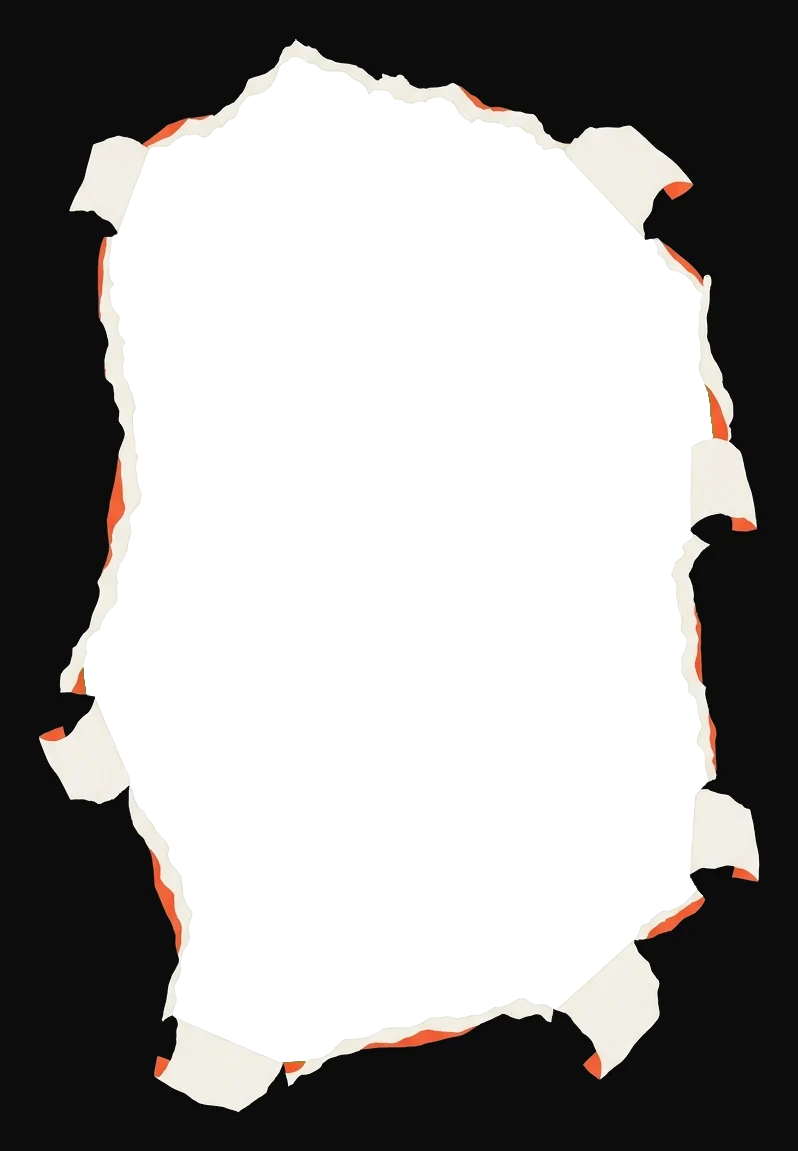
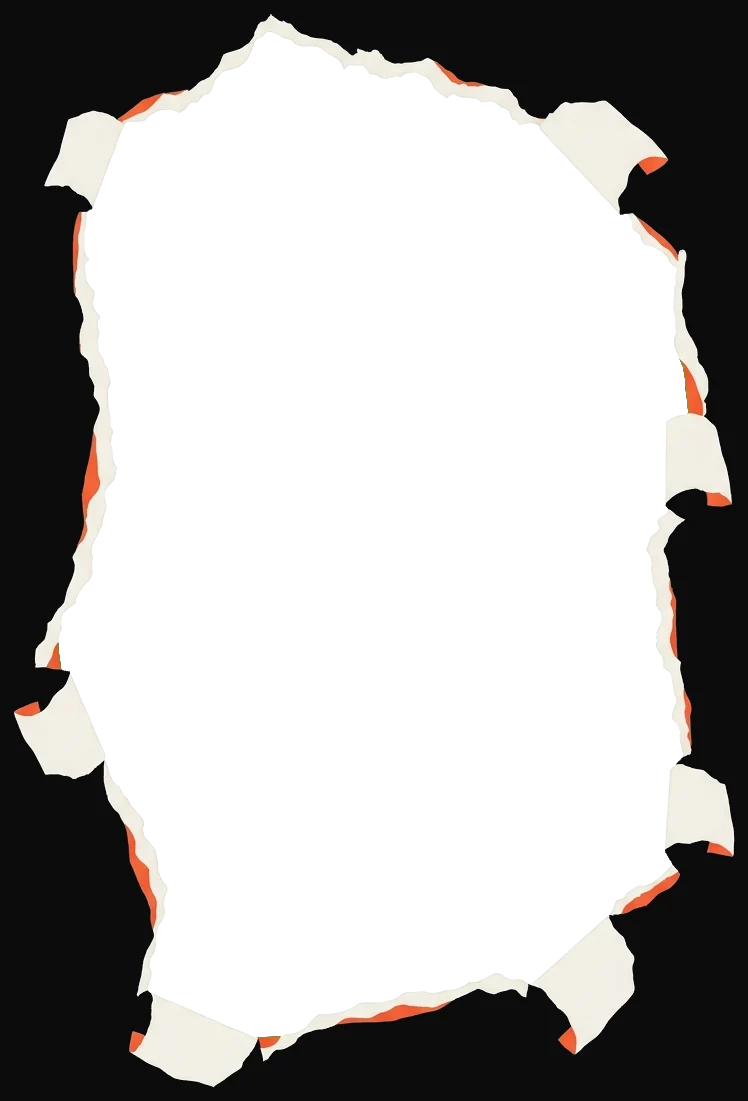
feat(landing): el agujero de la página rota, más grande
A pedido de Federico: el recorte deja casi nada de negro alrededor del papel
roto, en la compu el marco llega hasta el 88% del alto de la pantalla (antes
78%) y en el celular se sale un poco de los costados, como si la rotura
siguiera más allá (la sección recorta lo que sobra: no hay scroll de costado).

Changed region(s): [[0.0, 0.0, 0.984, 0.9882]]

diff --git a/components/rd/arcade.tsx b/components/rd/arcade.tsx
@@ -645,7 +645,7 @@ export function RdArcade() {
       id="en-vivo"
       data-theme="ink"
       aria-label="La oficina en vivo"
-      className="relative bg-(--ink) pt-10 pb-32 md:pt-16 md:pb-48"
+      className="relative overflow-x-clip bg-(--ink) pt-10 pb-32 md:pt-16 md:pb-48"
     >
       <div className="rd-wrap">
         <div className="grid gap-8 lg:grid-cols-12">
@@ -682,11 +682,12 @@ export function RdArcade() {
         {/* El marco: la página rota. Por el agujero se ven las máquinas del otro lado
             y el video del fichín; la hoja es del mismo negro que la página, así el
             borde de la imagen no se nota. Tiene la forma de la lámina (una apaisada
-            y otra parada para el celular), sin deformarse. */}
+            y otra parada para el celular), sin deformarse. En el celular se sale un
+            poco de los costados: la rotura sigue más allá de la pantalla. */}
         <div ref={frameRef} className="relative mt-14 md:mt-20">
           <div
             ref={slotRef}
-            className="relative mx-auto aspect-[798/1151] w-full max-w-[min(100%,calc(80svh*798/1151))] sm:aspect-[1008/724] sm:max-w-[min(100%,calc(78svh*1008/724))]"
+            className="relative left-1/2 aspect-[748/1101] w-[110vw] max-w-[calc(86svh*748/1101)] -translate-x-1/2 sm:left-auto sm:mx-auto sm:aspect-[964/680] sm:w-full sm:max-w-[min(100%,calc(88svh*964/680))] sm:translate-x-0"
           >
             <button
               ref={panelRef}
